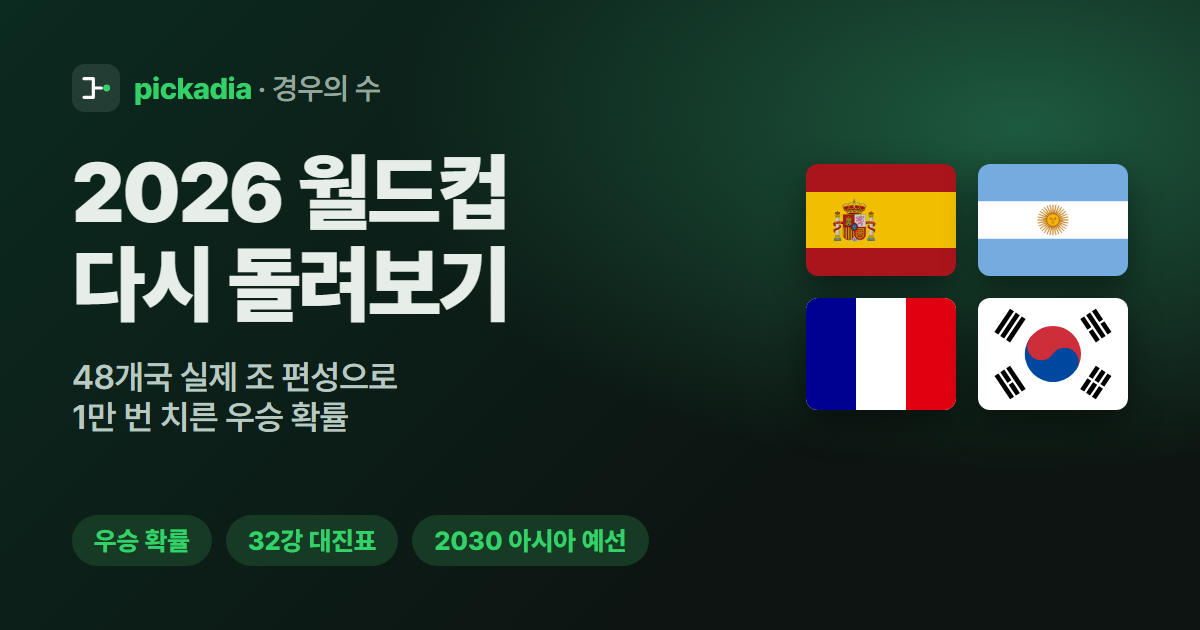
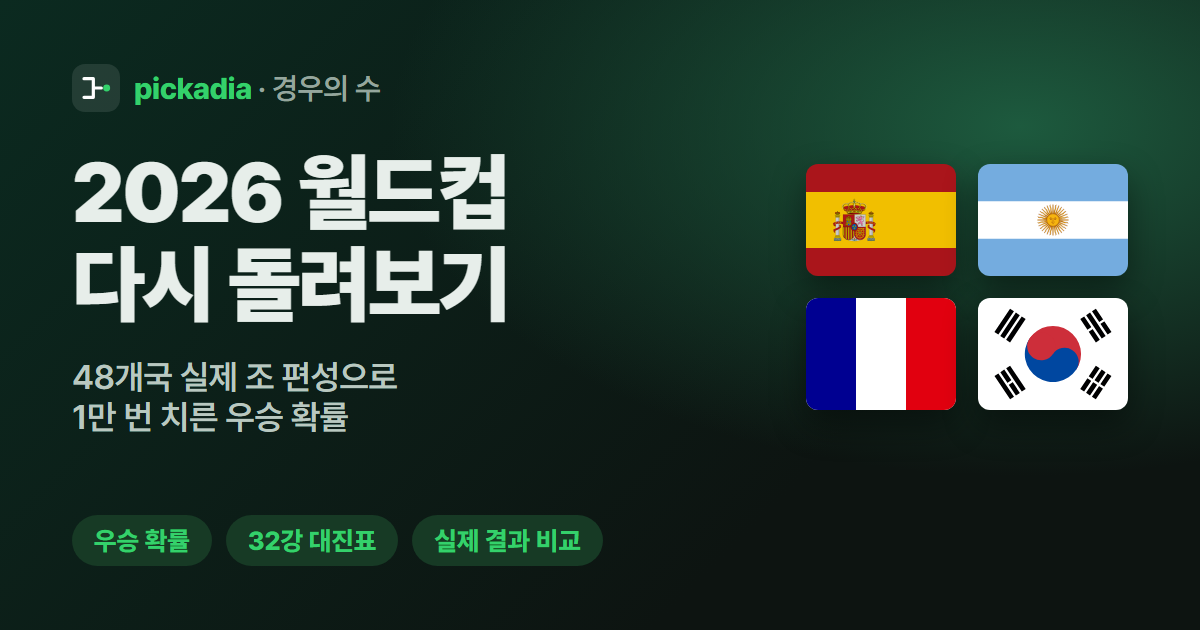
월드컵 페이지에서 2030 아시아 예선 안내 부분 삭제

Changed region(s): [[0.3392, 0.8143, 0.555, 0.9048]]

diff --git a/public/worldcup.html b/public/worldcup.html
@@ -3,22 +3,22 @@
 <head>
 <meta charset="utf-8">
 <meta name="viewport" content="width=device-width, initial-scale=1">
-<title>월드컵 경우의 수 · 2026 월드컵 다시 돌려보기와 2030 아시아 예선</title>
-<meta name="description" content="2026 FIFA 월드컵을 실제 조 편성과 규정 그대로 1만 번 다시 치러 본 우승 확률, 대회 한 번 돌려보기 대진표(32강~결승), 그리고 2030 월드컵 아시아 예선 조추첨 일정과 방식 정리.">
+<title>월드컵 경우의 수 · 2026 월드컵 다시 돌려보기 우승 확률과 대진표</title>
+<meta name="description" content="2026 FIFA 월드컵을 실제 조 편성과 규정 그대로 1만 번 다시 치러 본 우승 확률, 대회 한 번 돌려보기 대진표(32강~결승), 48개국 확률과 실제 결과 비교.">
 <meta property="og:title" content="월드컵 경우의 수 · 2026 월드컵 다시 돌려보기">
-<meta property="og:description" content="48개국 실제 조 편성으로 대회를 다시 치러 보고, 2030 아시아 예선도 미리 확인해요.">
+<meta property="og:description" content="48개국 실제 조 편성으로 대회를 다시 치러 보고 우승 확률을 확인해요.">
 <meta property="og:type" content="website">
 <meta property="og:url" content="https://pickadia.com/worldcup">
 <meta property="og:site_name" content="pickadia · 경우의 수">
 <meta property="og:locale" content="ko_KR">
-<meta property="og:image" content="https://pickadia.com/img/og-worldcup.png?v=2">
+<meta property="og:image" content="https://pickadia.com/img/og-worldcup.png?v=3">
 <meta property="og:image:width" content="1200">
 <meta property="og:image:height" content="630">
-<meta property="og:image:alt" content="2030 월드컵 아시아 예선 경우의 수">
+<meta property="og:image:alt" content="2026 월드컵 다시 돌려보기 · 우승 확률과 대진표">
 <meta name="twitter:card" content="summary_large_image">
 <link rel="canonical" href="https://pickadia.com/worldcup">
 <script type="application/ld+json">
-{"@context":"https://schema.org","@type":"Article","headline":"2030 월드컵 아시아 예선 조추첨 일정과 예선 방식 정리","inLanguage":"ko","datePublished":"2026-11-04","dateModified":"2026-11-04","url":"https://pickadia.com/worldcup","author":{"@type":"Organization","name":"pickadia"},"publisher":{"@type":"Organization","name":"pickadia"}}
+{"@context":"https://schema.org","@type":"WebApplication","name":"월드컵 경우의 수","url":"https://pickadia.com/worldcup","applicationCategory":"SportsApplication","operatingSystem":"Web","inLanguage":"ko","isAccessibleForFree":true,"description":"2026 FIFA 월드컵을 실제 조 편성으로 다시 치러 보는 우승 확률과 대진표 시뮬레이터예요.","offers":{"@type":"Offer","price":"0","priceCurrency":"KRW"}}
 </script>
 <meta name="theme-color" content="#0b2a20">
 <link rel="icon" href="favicon.svg" type="image/svg+xml">
@@ -40,7 +40,6 @@ try { if (localStorage.getItem('cup-theme') === 'light') document.documentElemen
             <a href="euro.html">유로</a>
         </nav>
         <div class="top-right">
-            <span class="dday" id="dday"></span>
             <button type="button" class="theme-btn" id="theme_btn" aria-label="밝은 화면으로 바꾸기">☀</button>
         </div>
     </div>
@@ -88,111 +87,15 @@ try { if (localStorage.getItem('cup-theme') === 'light') document.documentElemen
         </ol>
         <p class="src">조 편성·실제 결과: <a href="https://en.wikipedia.org/wiki/2026_FIFA_World_Cup" target="_blank" rel="noopener">위키백과 2026 FIFA World Cup</a> · 32강 조합표: <a href="https://en.wikipedia.org/wiki/2026_FIFA_World_Cup_knockout_stage" target="_blank" rel="noopener">2026 FIFA World Cup knockout stage</a> · 경기 기록: <a href="https://github.com/martj42/international_results" target="_blank" rel="noopener">martj42/international_results</a> (CC0)</p>
     </section>
-
-    <section class="hero" aria-labelledby="q_title">
-        <p class="eyebrow">2030 FIFA 월드컵 · 스페인·포르투갈·모로코 · 아시아 지역 예선</p>
-        <h2 id="q_title" class="hero-h">2030 월드컵 아시아 예선 조추첨까지</h2>
-        <p class="big" id="draw_dday">D-?</p>
-        <ul class="stages">
-            <li><span>조추첨 (보도)</span><b>12.15</b></li>
-            <li><span>2차 예선</span><b>36개국</b></li>
-            <li><span>조 편성</span><b>4팀 × 9조</b></li>
-            <li><span>2차 예선 기간</span><b>27.9~28.3</b></li>
-            <li><span>한국 (예상)</span><b>1포트</b></li>
-        </ul>
-        <p class="hero-note">조추첨이 끝나면 이 페이지에서 조별 진출 확률을 1만 번 시뮬레이션으로 계산하고, 남은 경기 점수를 직접 넣어 볼 수 있게 열어요.</p>
-    </section>
-
-    <article class="card prose" aria-labelledby="known_title">
-        <h2 id="known_title">지금까지 알려진 것</h2>
-        <p class="meta">2026년 11월 4일 기준 · 아래 내용은 언론 보도를 정리한 것이고, AFC 공식 발표 원문은 아직 확인하지 못했어요.</p>
-        <div class="scroll">
-            <table class="tbl info-tbl">
-                <tbody>
-                    <tr><th scope="row">조추첨</th><td>2026년 12월 15일. 태국 매체 시암스포츠가 AFC 발표를 인용해 보도했어요.</td></tr>
-                    <tr><th scope="row">2차 예선</th><td>36개국이 4팀씩 9개 조로 나뉘어 홈·원정 경기를 치러요(팀당 6경기).</td></tr>
-                    <tr><th scope="row">기간</th><td>2027년 9월 ~ 2028년 3월</td></tr>
-                    <tr><th scope="row">다음 단계</th><td>각 조 1·2위(18팀)가 3차 예선에 가고, 2031 AFC 아시안컵 본선 출전권도 함께 얻어요.</td></tr>
-                    <tr><th scope="row">1차 예선</th><td>아직 열리지 않았어요. 통과한 팀은 2차 예선 4포트에 들어가요.</td></tr>
-                </tbody>
-            </table>
-        </div>
-
-        <h3>예상 포트 (FIFA 랭킹 기준 전망)</h3>
-        <p>아세안 풋볼이 2026년 12월 FIFA 랭킹을 예상해 공개한 배정이에요. 실제 포트는 조추첨 직전 랭킹으로 정해져요.</p>
-        <div class="scroll">
-            <table class="tbl info-tbl">
-                <tbody>
-                    <tr><th scope="row">1포트</th><td>대한민국, 일본, 이란, 호주, 사우디아라비아 …</td></tr>
-                    <tr><th scope="row">2포트</th><td>중국, 태국, 베트남 …</td></tr>
-                    <tr><th scope="row">3포트</th><td>북한, 인도네시아, 말레이시아 …</td></tr>
-                    <tr><th scope="row">4포트</th><td>1차 예선 통과 팀</td></tr>
-                </tbody>
-            </table>
-        </div>
-        <p>한국은 1포트라서 일본·이란·호주와 같은 조에 들어가지 않아요. 같은 조에 들어갈 수 있는 팀은 2~4포트 팀들이라, 보도처럼 중국·북한과 한 조가 될 가능성도 있어요.</p>
-    </article>
-
-    <article class="card prose" aria-labelledby="unknown_title">
-        <h2 id="unknown_title">아직 정해지지 않은 것</h2>
-        <ul>
-            <li><b>본선 참가국 수와 아시아 티켓:</b> 2026 대회는 48개국, 아시아 직행 8장 + 대륙 간 플레이오프 1장이었어요. 2030 대회를 64개국으로 늘리는 안이 논의 중이고, 늘어나면 아시아 티켓도 늘 수 있다는 전망이 있어요. FIFA는 아직 확정하지 않았어요.</li>
-            <li><b>3차 예선 이후 방식:</b> 2026 예선처럼 3차 예선(3개 조) → 4차 예선 → 5차 예선(플레이오프)으로 갈 거라는 추정이 많지만, 공식 발표는 없어요.</li>
-            <li><b>아시아 네이션스리그 연계:</b> AFC가 네이션스리그를 만들어 아시안컵·월드컵 예선과 연결하겠다고 발표했어요. 언제부터 어떻게 연결할지는 아직 정해지지 않았어요.</li>
-        </ul>
-    </article>
-
-    <article class="card prose" aria-labelledby="prev_title">
-        <h2 id="prev_title">참고: 지난 2026 월드컵 아시아 예선 방식</h2>
-        <p>2030 예선도 비슷한 흐름으로 갈 가능성이 높아서, 지난 예선 방식을 정리해 뒀어요.</p>
-        <ol>
-            <li><b>1차 예선:</b> 랭킹이 낮은 20개국이 홈·원정 맞대결, 이긴 10팀이 2차 예선으로</li>
-            <li><b>2차 예선:</b> 36개국, 4팀씩 9개 조 홈·원정. 각 조 1·2위(18팀)가 3차 예선으로</li>
-            <li><b>3차 예선:</b> 18팀, 6팀씩 3개 조 홈·원정. <b>각 조 1·2위 6팀이 본선 직행</b>, 3·4위는 4차 예선으로</li>
-            <li><b>4차 예선:</b> 6팀, 3팀씩 2개 조. 각 조 1위 2팀이 본선 직행, 2위는 5차 예선으로</li>
-            <li><b>5차 예선:</b> 두 조 2위끼리 홈·원정. 이긴 팀이 대륙 간 플레이오프로</li>
-        </ol>
-        <p>한국은 2차 예선에서 중국·태국·싱가포르와 같은 조, 3차 예선에서 이라크·요르단·오만·팔레스타인·쿠웨이트와 같은 조였고, 두 단계 모두 조 1위로 본선에 갔어요.</p>
-    </article>
-
-    <article class="card prose" aria-labelledby="kor_title">
-        <h2 id="kor_title">한국의 월드컵 본선 기록</h2>
-        <p>한국은 1954년 스위스 대회에 처음 나갔고, 1986년 멕시코 대회부터 2026년 북중미 대회까지 <b>11회 연속</b> 본선에 올랐어요(통산 12회). 2030 대회에 가면 12회 연속이에요.</p>
-        <p>그동안 예선 막판마다 "경우의 수"가 화제가 됐어요. 다른 조 결과와 득실차까지 따져야 했던 순간들이 많았죠. 이 페이지는 조추첨 뒤 그런 계산을 직접 해 볼 수 있게 만들 거예요.</p>
-    </article>
-
-    <section class="card model" aria-labelledby="plan_title">
-        <h2 id="plan_title">조추첨 뒤 열리는 기능</h2>
-        <ol>
-            <li><b>조별 진출 확률:</b> 국가대표 경기 약 5만 건으로 계산한 Elo 전력 점수로 남은 경기를 1만 번 시뮬레이션해요. 아시안컵·네이션스리그 페이지와 같은 방식이에요.</li>
-            <li><b>직접 찍어 보기:</b> 남은 경기에 점수를 넣으면 진출 확률이 바로 바뀌고, 링크로 공유할 수 있어요.</li>
-            <li><b>AFC 순위 규정:</b> 승점이 같을 때 맞대결·득실차 같은 순위 결정 방식을 규정 원문대로 넣어요.</li>
-            <li><b>경기 결과 자동 반영:</b> 경기가 끝나면 매시간 결과를 받아 확률을 다시 계산해요.</li>
-        </ol>
-        <p class="src">출처: <a href="https://www.xportsnews.com/article/2206319" target="_blank" rel="noopener">엑스포츠뉴스 (2026.10.11, 시암스포츠·아세안 풋볼 인용)</a> · <a href="https://www.espn.com/soccer/story/_/id/50098546/afc-introduce-nations-league-shake-world-cup-asian-cup-qualification" target="_blank" rel="noopener">ESPN: AFC 네이션스리그 도입</a> · <a href="https://en.wikipedia.org/wiki/2026_FIFA_World_Cup_qualification_(AFC)" target="_blank" rel="noopener">위키백과 2026 FIFA World Cup qualification (AFC)</a></p>
-    </section>
 </main>
 
 <footer class="foot">
     <div class="wrap">
-        <p>경우의 수는 팬이 만든 비공식 서비스로, FIFA·AFC와 관련이 없어요.</p>
+        <p>경우의 수는 팬이 만든 비공식 서비스로, FIFA와 관련이 없어요.</p>
         <nav aria-label="사이트 정보"><a href="about.html">소개</a><a href="privacy.html">개인정보처리방침</a></nav>
     </div>
 </footer>
 
-<script>
-// 조추첨(보도 기준 2026.12.15)까지 남은 날 (한국 날짜 기준)
-(function () {
-    var draw = Date.UTC(2026, 11, 15) / 864e5;
-    var now = new Date(Date.now() + 9 * 3600e3);
-    var today = Date.UTC(now.getUTCFullYear(), now.getUTCMonth(), now.getUTCDate()) / 864e5;
-    var d = Math.round(draw - today);
-    var el = document.getElementById('draw_dday'), top = document.getElementById('dday');
-    var txt = d > 0 ? 'D-' + d : d === 0 ? 'D-DAY' : '조추첨 완료';
-    el.textContent = txt;
-    top.textContent = d >= 0 ? '조추첨 ' + txt : '';
-})();
-</script>
 <script src="data/wc2026.js?v=2"></script>
 <script src="js/worldcup.js?v=2"></script>
 <script src="js/worldcup-app.js?v=2"></script>

diff --git a/public/about.html b/public/about.html
@@ -49,7 +49,7 @@ try { if (localStorage.getItem('cup-theme') === 'light') document.documentElemen
         <ul>
             <li><a href="./">2027 AFC 아시안컵</a>: 조별리그 진출 확률, 16강 상대, 토너먼트 시뮬레이션</li>
             <li><a href="nations.html">2026-27 UEFA 네이션스리그 리그 A</a>: 8강 진출, 승강 플레이오프, 리그 B 강등 확률과 조 3위·4위 비교 (경기 결과는 매시간 반영)</li>
-            <li><a href="worldcup.html">월드컵</a>: 2026 월드컵을 실제 조 편성으로 다시 돌려보는 우승 확률·대진표, 2030 아시아 예선 조추첨 일정과 방식 정리</li>
+            <li><a href="worldcup.html">월드컵</a>: 2026 월드컵을 실제 조 편성으로 다시 돌려보는 우승 확률·대진표</li>
             <li><a href="euro.html">유로</a>: 유로 2024를 실제 조 편성으로 다시 돌려보는 우승 확률·대진표, 유로 2028 일정</li>
         </ul>
 
